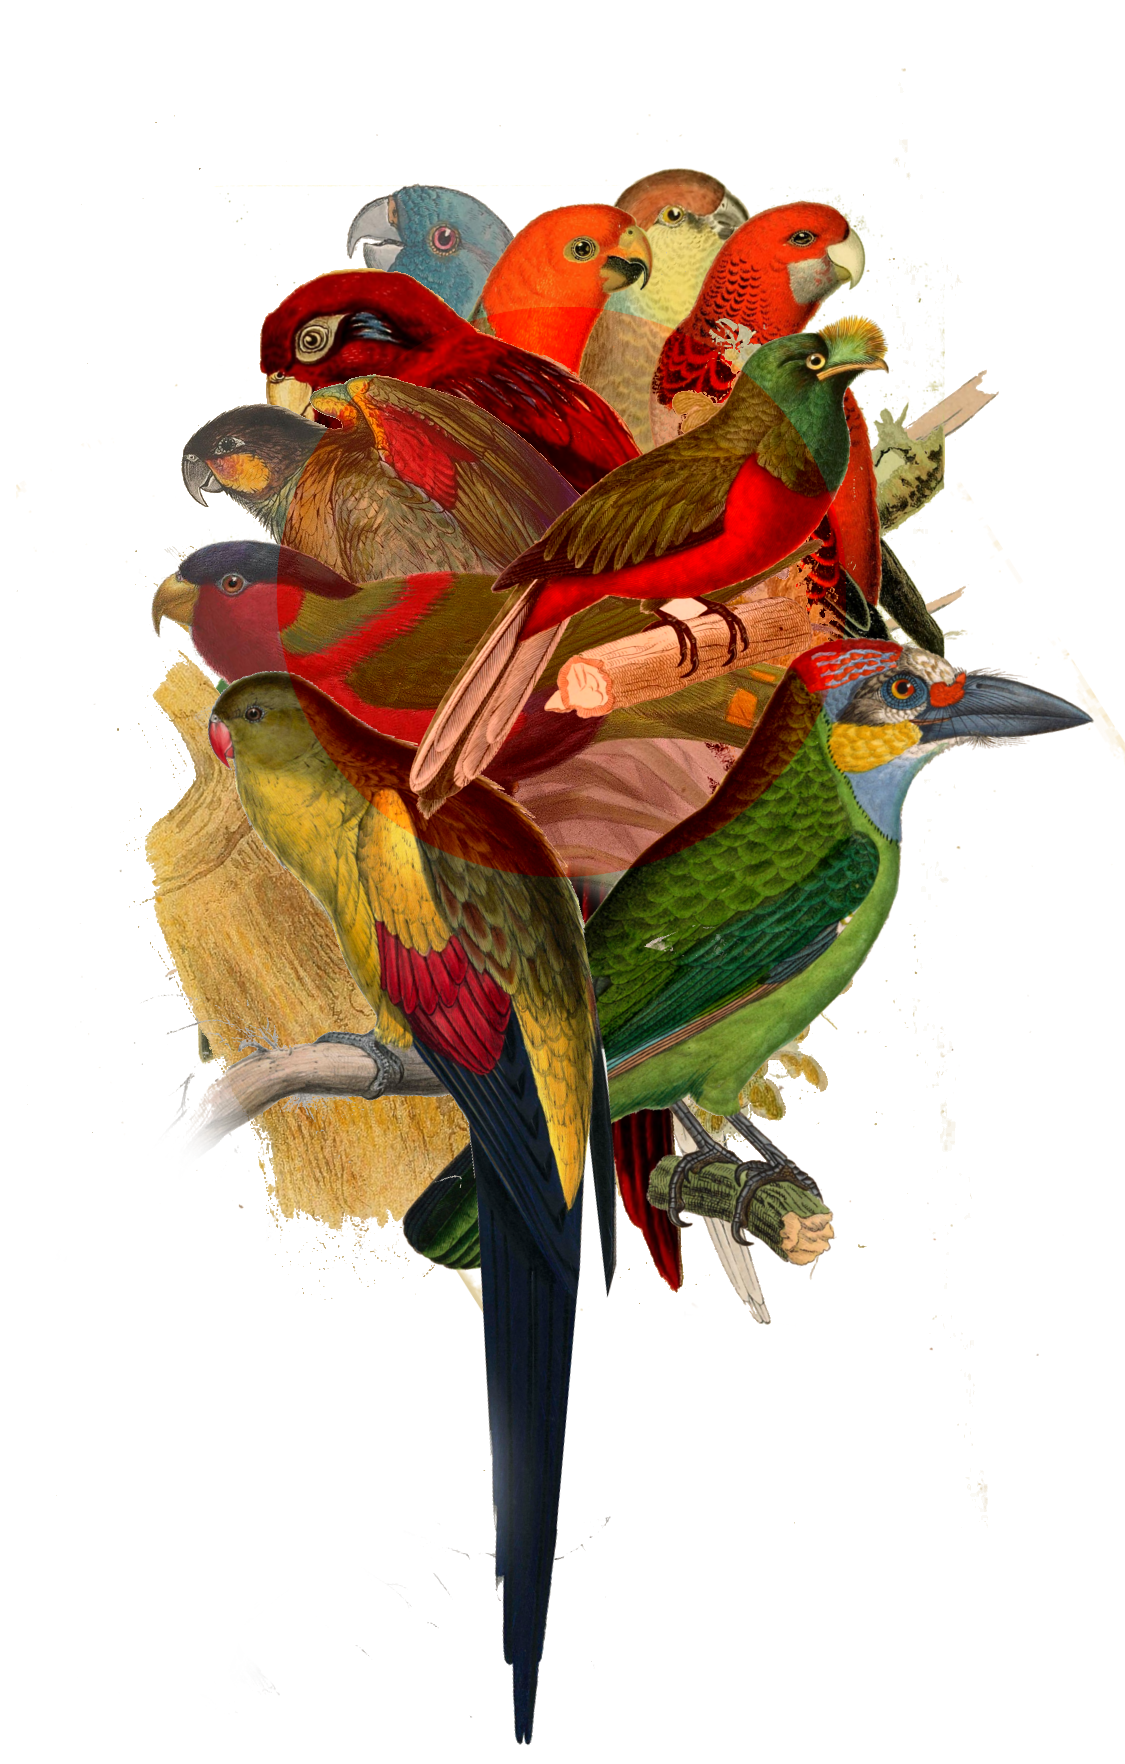
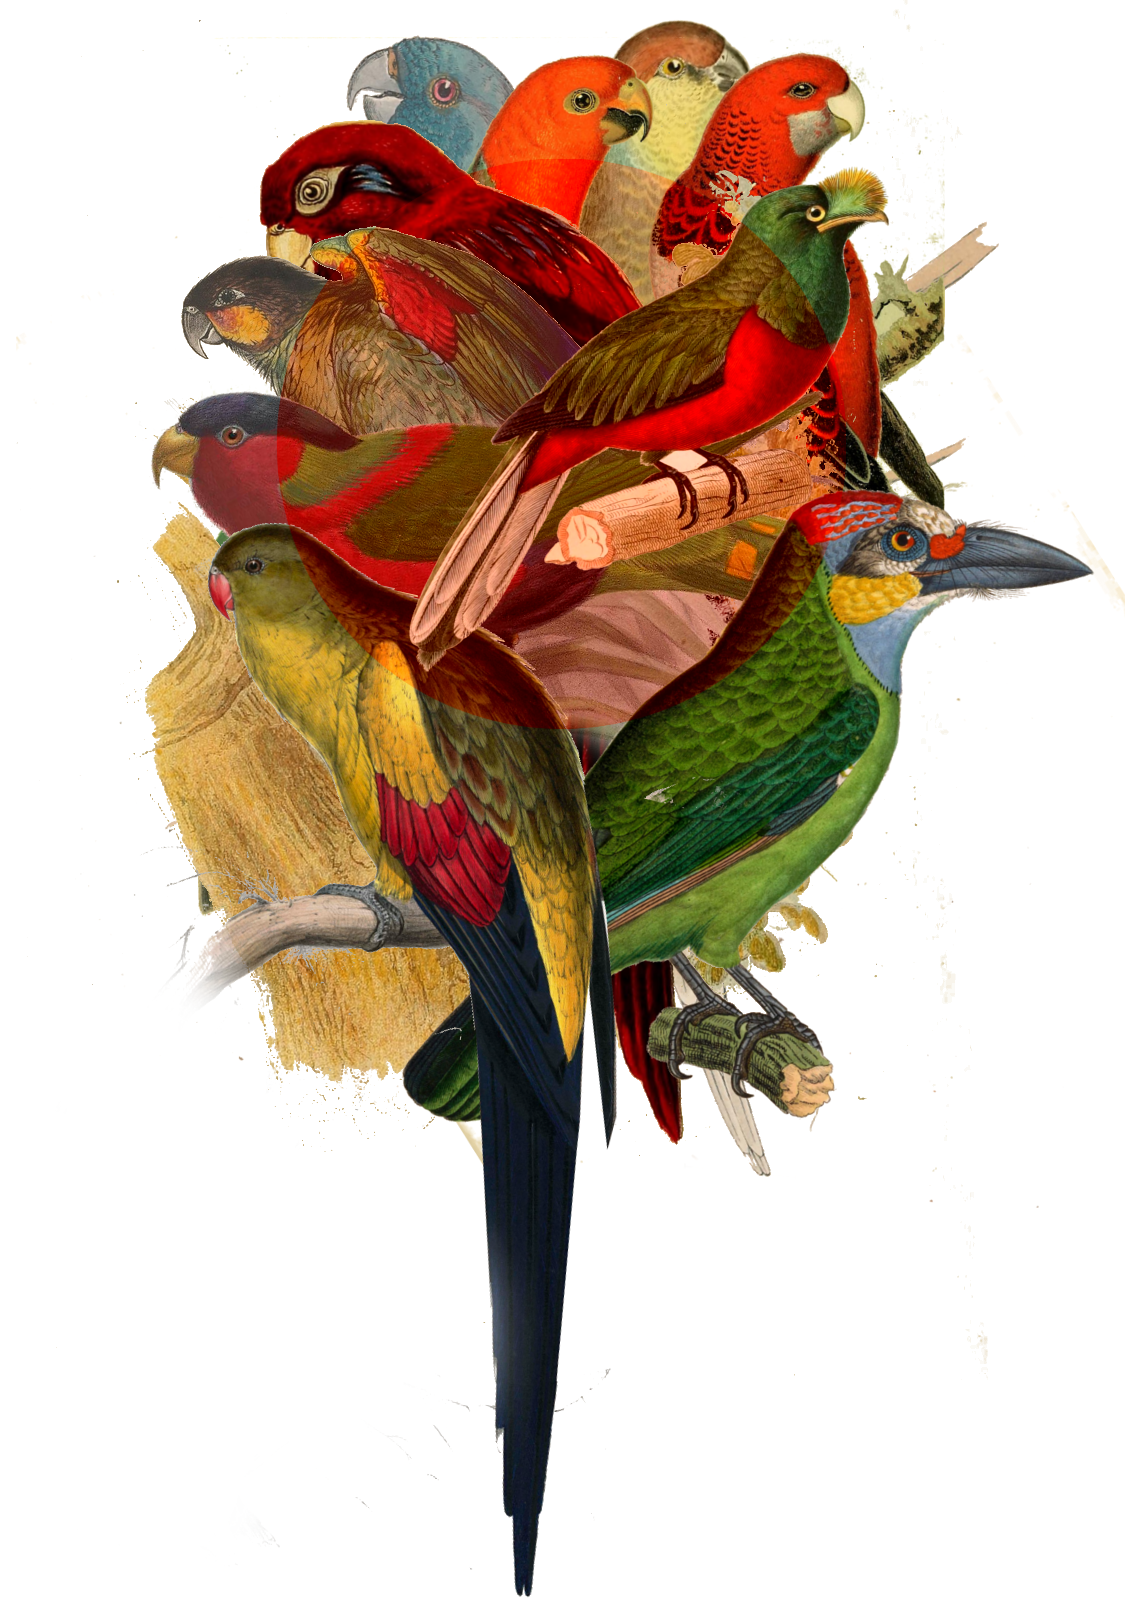
Update styling of lorikeet page

diff --git a/_layouts/default.html b/_layouts/default.html
@@ -14,29 +14,27 @@
     <script src='/js/mpd.js' type="text/javascript"></script>
   </head>
   <body>
-		<div class='birds'>
-			<img src="/img/birds.png"/>
-		</div>
+    <div class='birds'>
+      <div class='center'>
+        <div class='pg logo'>
+          <a href="/">
+            <img src="/img/logo.png"/>
+          </a>
+        </div>
 
-		<div class='center'>
-			<div class='pg logo'>
-				<a href="/">
-					<img src="/img/logo.png"/>
-				</a>
-			</div>
+        <div class="pages">
+          <div class="menu">
+            <ul>
+              <li><a href='mailto:bird@lorikeet.nl'>book</a></li>
+              <li><a href="/posts">posts</a></li>
+              <li><a href="/about">about</a></li>
+            </ul>
+          </div>
 
-			<div class="pages">
-				<div class="menu">
-					<ul>
-						<li><a href='mailto:bird@lorikeet.nl'>book</a></li>
-						<li><a href="/posts">posts</a></li>
-						<li><a href="/about">about</a></li>
-					</ul>
-				</div>
-
-				{{ content }}
-			</div>
-      <footer>©2017 - Lorikeet</footer>
+          {{ content }}
+        </div>
+        <footer>©2017 - Lorikeet</footer>
+      </div>
     </div>
   </body>
 </html>

diff --git a/style.sass b/style.sass
@@ -22,7 +22,6 @@ body
     text-align: center
     ul
       margin: 0
-      z-index: 2
       position: relative
 
       > li
@@ -43,6 +42,7 @@ body
   .center
     width: 540px
     margin: 20px auto
+    padding-top: 175px
 
     .pages
       box-shadow: 0px 2px 20px 1px #444
@@ -125,10 +125,8 @@ a
     color: black
 
 div.birds
-  text-align: center
+  background: url('/img/birds.png') no-repeat top center
   position: relative
-  z-index: -1
-  height: 300px
 
 div.pg
   position: relative
@@ -148,7 +146,7 @@ div.pg
     border-bottom: none
     padding: 0
     height: 270px
-    z-index: -1
+    overflow: hidden
 
     a
       border: none
@@ -242,13 +240,11 @@ span.or
   margin: 10px 0
 
 @media only screen and (max-width: 575px)
-  body
-    margin: 0 5px
-
   body .center
     width: 100%
+
     margin: auto
-    padding: 0
+    padding-top: 0
 
   h1
     font-size: 120%
@@ -263,10 +259,6 @@ span.or
     width: calc(100% - 10px)
     width: -moz-calc(100% - 10px)
     width: -webkit-calc(100% - 10px)
-
-  div.pg.logo h1
-    font-size: 430%
-    text-align: center
 
   img
     width: 100%

diff --git a/about/index.html b/about/index.html
@@ -4,8 +4,8 @@ title: 'About'
 ---
 
 <div class='pg about post'>
-	<img src="/img/lorikeet-logo-bg-circle-cut-out.png"/>
-	<p>
+  <img src="/img/lorikeet-logo-bg-circle-cut-out.png"/>
+  <p>
     "A Lorikeet is a small to medium sized arboreal parrot. The majority
     have very brightly coloured plumage."
   </p>
